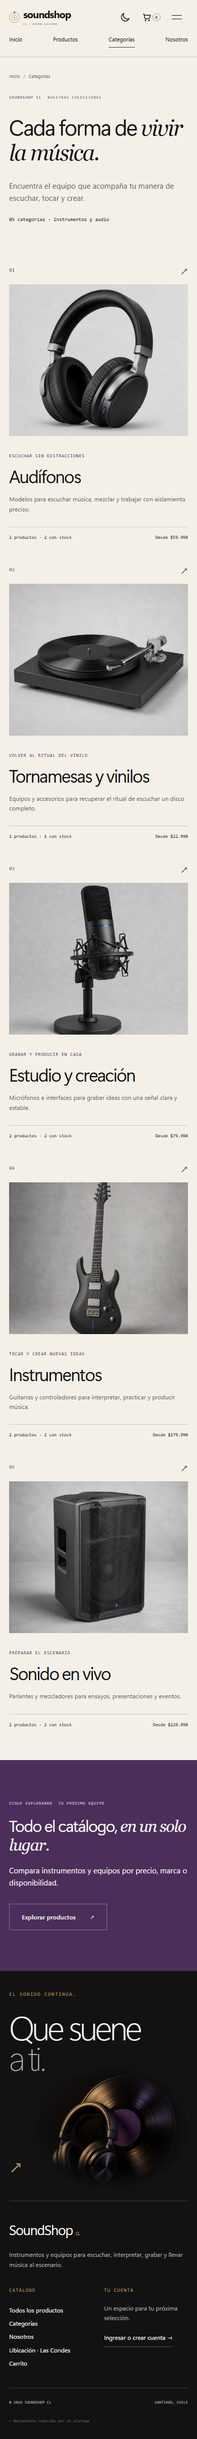
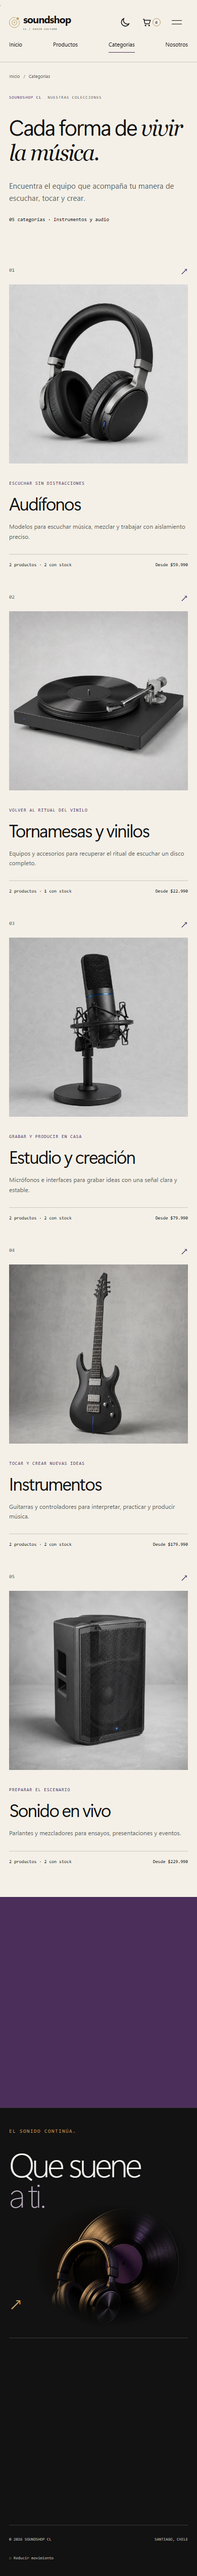
Corrige encuadre de productos en categorias sin recortar imagenes

diff --git a/static/css/store-refinements.css b/static/css/store-refinements.css
@@ -1,4 +1,17 @@
-/* Visible navigation, guest checkout and the projected Las Condes space. */
+/* Shared category photography, navigation and store refinements. */
+/* Product photos are square: preserve their frame in both category galleries,
+   including the wide final row, instead of cropping the equipment to fill it. */
+.category-grid--collections .category-tile .category-tile__thumbnail {
+  aspect-ratio: 1;
+}
+.category-grid--collections .category-tile__thumbnail img {
+  object-fit: contain;
+  object-position: center;
+}
+.category-grid--collections .category-tile:hover .category-tile__thumbnail img {
+  transform: none;
+}
+
 .brand { flex-shrink: 0; }
 .brand__mark { flex-shrink: 0; }
 .brand__mark > .brand__groove {

diff --git a/templates/base.html b/templates/base.html
@@ -28,7 +28,7 @@
   </script>
   <link rel="stylesheet" href="{% static 'css/tailwind.css' %}">
   <link rel="stylesheet" href="{% static 'css/identity.css' %}?v=04">
-  <link rel="stylesheet" href="{% static 'css/store-refinements.css' %}?v=02">
+  <link rel="stylesheet" href="{% static 'css/store-refinements.css' %}?v=03">
   <script src="{% static 'js/main.js' %}?v=identity-04" defer></script>
   {% block extra_css %}{% endblock %}
 </head>

diff --git a/docs/verificacion-entrega.md b/docs/verificacion-entrega.md
@@ -27,3 +27,9 @@ El proyecto se publicó en [YkzPam/SoundShopCL](https://github.com/YkzPam/SoundS
 Una clonación independiente de la publicación `2194be7` completó `manage.py check` sin problemas y las 50 pruebas en 7,005 segundos. Se utilizó el entorno Python ya instalado, pero el código se obtuvo desde GitHub; no constituye una instalación de dependencias desde cero en otro computador.
 
 La comprobación de enlaces locales recorrió 16 documentos Markdown sin destinos inexistentes. La aprobación del alcance por el docente y la demostración corresponden a actividades externas a estas pruebas. El documento no garantiza 100 puntos ni presenta como otorgada una calificación de la rúbrica.
+
+## 8.4 Ajuste del encuadre de categorías
+
+El 6 de septiembre de 2026 se corrigió el recorte de las imágenes compartidas por Inicio y Categorías. Los marcos respetan la proporción cuadrada de las fotografías y utilizan `object-fit: contain`; el hover ya no amplía la imagen. El ajuste incluye la fila de Sonido en vivo, que antes cortaba el parlante por utilizar un marco horizontal. No se modificaron los datos ni el funcionamiento de Django.
+
+La revisión cubrió ambas páginas en 320, 390, 768 y 1440 píxeles, en claro y oscuro: 16 combinaciones y 80 imágenes comprobadas, sin desbordamiento de página ni errores JavaScript detectados. Se revisaron carga, proporción y ausencia de ampliación, incluido hover en escritorio. Django completó nuevamente sus 50 pruebas. Se actualizaron las ocho capturas `final-inicio-*` y `final-categorias-*`; el detalle se puede consultar en [escritorio](evidencias/encuadre-sonido-en-vivo-light-1440.png) y [móvil](evidencias/encuadre-sonido-en-vivo-light-390.png).
